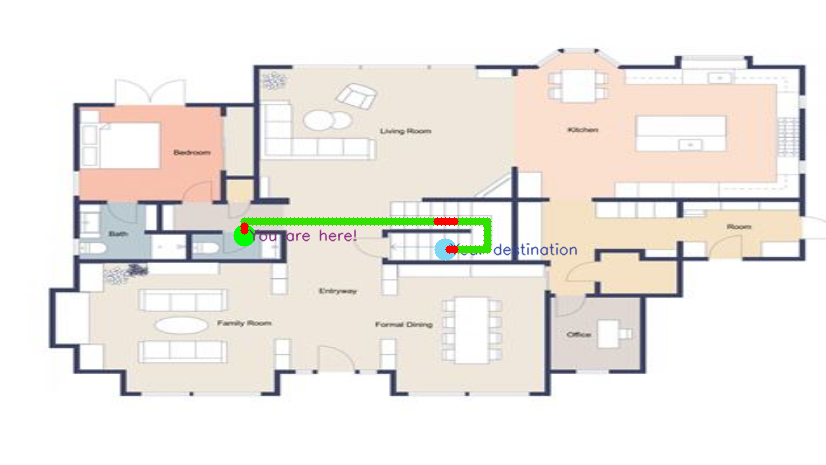
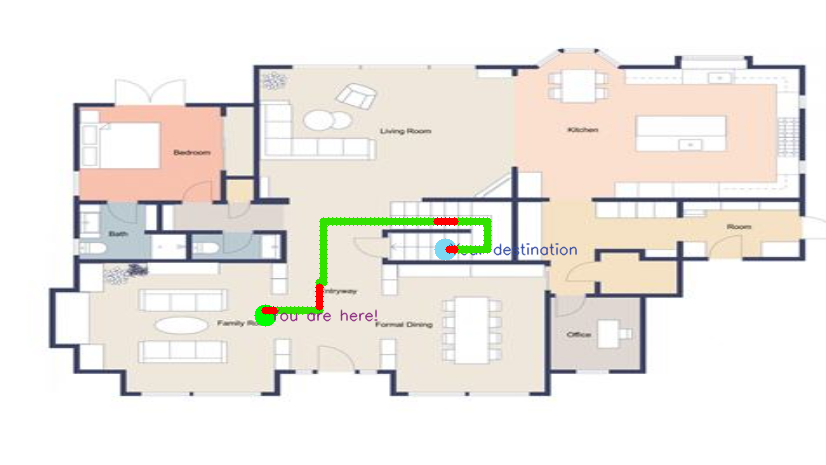
added the css mapping!

Changed region(s): [[0.2724, 0.4516, 0.454, 0.7226]]

diff --git a/inmapapp/templates/inmapapp/sample.html b/inmapapp/templates/inmapapp/sample.html
@@ -3,7 +3,24 @@
 <html>
 <head>
     <link href="https://cdn.jsdelivr.net/npm/bootstrap@5.0.2/dist/css/bootstrap.min.css" rel="stylesheet" integrity="sha384-EVSTQN3/azprG1Anm3QDgpJLIm9Nao0Yz1ztcQTwFspd3yD65VohhpuuCOmLASjC" crossorigin="anonymous">
-</head>
+    <style>
+      .con {
+        width:826px;
+        height:465px;
+        border: 5px solid gold;
+      }
+      .img {
+        width: 100%;
+        height: 100%;
+        object-fit: fill;
+      }
+    </style>
+    <meta charset="UTF-8" />
+    <meta name="viewport" content="width=device-width, initial-scale=1.0" />
+    <meta http-equiv="X-UA-Compatible" content="ie=edge" />
+    <meta name="Description" content="Enter your description here" />
+    <link rel="stylesheet" href="https://cdn.jsdelivr.net/npm/bootstrap@4.0.0/dist/css/bootstrap.min.css" integrity="sha384-Gn5384xqQ1aoWXA+058RXPxPg6fy4IWvTNh0E263XmFcJlSAwiGgFAW/dAiS6JXm" crossorigin="anonymous">
+  </head>
 <body>
     <nav class="navbar navbar-light bg-light">
         <div class="container-fluid justify-content-center">
@@ -13,11 +30,22 @@
           </a>
         </div>
       </nav>
-      <div class="container" style="position: relative;
-      text-align: center;">
-        <img src="{%static 'inmapapp/modfloor2.png' %}"  alt="Snow" style="width:100%;">
-        {{data|safe}}
+      {% comment %} <div class="container" style="position: relative;
+      border:2px solid black">
+        <img src="{%static 'inmapapp/modfloor1.png' %}"  alt="Snow" style="width:100%;position: relative;">
+        
+        </div> {% endcomment %}
+        <div class="container-fluid" style="max-height:465px;max-width:826px;">
+          <div class="row">
+            <div class="col">
+              <img src="{%static 'inmapapp/modfloor1.png' %}" alt="Image" class="img" />
+          {{data|safe}}
+            </div>
+            </div>
         </div>
+        <script src="https://code.jquery.com/jquery-3.2.1.slim.min.js" integrity="sha384-KJ3o2DKtIkvYIK3UENzmM7KCkRr/rE9/Qpg6aAZGJwFDMVNA/GpGFF93hXpG5KkN" crossorigin="anonymous"></script>
+<script src="https://cdn.jsdelivr.net/npm/popper.js@1.12.9/dist/umd/popper.min.js" integrity="sha384-ApNbgh9B+Y1QKtv3Rn7W3mgPxhU9K/ScQsAP7hUibX39j7fakFPskvXusvfa0b4Q" crossorigin="anonymous"></script>
+<script src="https://cdn.jsdelivr.net/npm/bootstrap@4.0.0/dist/js/bootstrap.min.js" integrity="sha384-JZR6Spejh4U02d8jOt6vLEHfe/JQGiRRSQQxSfFWpi1MquVdAyjUar5+76PVCmYl" crossorigin="anonymous"></script>
     </body>
     </html>
 

diff --git a/inmapapp/templates/inmapapp/result.html b/inmapapp/templates/inmapapp/result.html
@@ -58,7 +58,14 @@
       <div class="img-wrapper" id="overlay1" style="left:0%;">
         
         <div class="img-wrapper-overlay"></div>
-        <img src="{%static 'inmapapp/modfloor1.png' %}" class="img-fluid" alt="...">
+        <div class="container-fluid" style="max-height:465px;max-width:826px;">
+          <div class="row">
+            <div class="col">
+              <img src="{%static 'inmapapp/modfloor1.png' %}" alt="Image" class="img" />
+          {{data|safe}}
+            </div>
+            </div>
+        </div>
         <div class="border border-primary rounded p-2">floor1</div>
 
       </div>
@@ -70,7 +77,14 @@
         
         <div class="img-wrapper-overlay"></div>
 
-        <img src="{%static 'inmapapp/modfloor2.png' %}" class="img-fluid" alt="...">
+        <div class="container-fluid" style="max-height:465px;max-width:826px;">
+          <div class="row">
+            <div class="col">
+              <img src="{%static 'inmapapp/modfloor2.png' %}" alt="Image" class="img" />
+          {{data|safe}}
+            </div>
+            </div>
+        </div>
         <div class="border border-primary rounded p-2">floor2</div>
       </div>
       
@@ -81,7 +95,14 @@
     <div class="img-wrapper" id="overlay1" style="left:0%;">
         
       <div class="img-wrapper-overlay"></div>
-      <img src="{%static 'inmapapp/modfloor1.png' %}" class="img-fluid" alt="...">
+      <div class="container-fluid" style="max-height:465px;max-width:826px;">
+        <div class="row">
+          <div class="col">
+            <img src="{%static 'inmapapp/modfloor1.png' %}" alt="Image" class="img" />
+        {{data1|safe}}
+          </div>
+          </div>
+      </div>
       <br>
       <div class="border border-primary rounded p-2">floor1</div>
 
@@ -90,7 +111,14 @@
         
       <div class="img-wrapper-overlay"></div>
 
-      <img src="{%static 'inmapapp/modfloor2.png' %}" class="img-fluid" alt="...">
+      <div class="container-fluid" style="max-height:465px;max-width:826px;">
+        <div class="row">
+          <div class="col">
+            <img src="{%static 'inmapapp/modfloor2.png' %}" alt="Image" class="img" />
+        {{data2|safe}}
+          </div>
+          </div>
+      </div>
 <div class="border border-primary rounded p-2">floor2</div>
     </div>
     </div>

diff --git a/inmapapp/views.py b/inmapapp/views.py
@@ -2,6 +2,7 @@ from django.shortcuts import render,redirect
 from .mazetest import Maze
 from .solutiondata import sols
 import time,os
+
 # floor1checkpoint = {"kitchen":(138, 23), "bedroom1":(48, 24), "emptyroom":(59, 41), "bath":(31, 44), "stairentry":(106, 45), "bath2":(58, 50), "room":(188, 50),"stairexit":(106, 53),"familyroom":(63, 67), "formaldining":(100, 68),"office":(139, 71), "exit":(79, 76)}
 # floor2checkpoint = {"bedroom1":(56,24), "familyroom":(119, 37), "bath":(32, 45), "stairentry":(143, 45), "emptyroom":(73, 51),"stairexit":(142, 51), "bedroom3":(146, 62),"bedroom2":(74, 63),"Bathroom":(107, 72)}
 
@@ -15,6 +16,7 @@ floor1 = False
 floor2 = False
 # Create your views here.
 def index(request):
+    global solutions
     if request.method == "GET":
         return render(request,'inmapapp/index.html',{'image':"inmapapp/MAP.png",'time':'','update':False})    
     else:
@@ -34,44 +36,69 @@ def index(request):
             To_x,To_y = floor1checkpoint[To]
             m = Maze(os.path.abspath('inmapapp/static/inmapapp/floor1.txt'),From_x,From_y,To_x,To_y,"floor1.png")
             m.solve()
-            m.output_image()
+            solutions = m.output_image()
             floor1 = True
             floor2 = False
-            
-            return render(request,'inmapapp/result.html',{'floor1':floor1,'floor2':floor2,'time':time.time()-then,'update':True})
+            ans=""
+            print(solutions[1])
+            for sol in solutions[1]:
+                ans+=f'''<span style="width:10px;height:10px;background:blue;position: absolute;top: {sol[0]*4.5}px;left: {sol[1]*4.2}px;"> </span>'''
+            # return render(request,'inmapapp/sample.html',{"data":ans})
+            return render(request,'inmapapp/result.html',{'floor1':floor1,'floor2':floor2,'time':time.time()-then,"data":ans,'update':True})
         if From in floor2checkpoint and To in floor2checkpoint:
             From_x,From_y = floor2checkpoint[From]
             To_x,To_y = floor2checkpoint[To]
             m = Maze(os.path.abspath('inmapapp/static/inmapapp/floor2.txt'),From_x,From_y,To_x,To_y,"floor2.png")
             m.solve()
-            m.output_image()
+            solutions = m.output_image()
             floor1=False
             floor2 = True
-            return render(request,'inmapapp/result.html',{'floor1':floor1,'floor2':floor2,'time':time.time()-then,'update':True})
+            ans=""
+            print(solutions[1])
+            for sol in solutions[1]:
+                ans+=f'''<span style="width:10px;height:10px;background:blue;position: absolute;top: {sol[0]*4.5}px;left: {sol[1]*4.2}px;"> </span>'''
+            # return render(request,'inmapapp/sample.html',{"data":ans})
+            return render(request,'inmapapp/result.html',{'floor1':floor1,'floor2':floor2,'time':time.time()-then,"data":ans,'update':True})
         if From in floor1checkpoint and To in floor2checkpoint:
             From_x,From_y = floor1checkpoint[From]
             To_x,To_y = floor2checkpoint[To]
             m = Maze(os.path.abspath('inmapapp/static/inmapapp/floor1.txt'),From_x,From_y,106,53,"floor1.png")
             m.solve()
-            m.output_image()
+            solutions1 = m.output_image()
+            ans1=""
+            print(solutions1[1])
+            for sol in solutions1[1]:
+                ans1+=f'''<span style="width:10px;height:10px;background:blue;position: absolute;top: {sol[0]*4.5}px;left: {sol[1]*4.2}px;"> </span>'''
             n = Maze(os.path.abspath('inmapapp/static/inmapapp/floor2.txt'),143,45,To_x,To_y,"floor2.png")
             n.solve()
-            n.output_image()
+            solutions2 = n.output_image()
             floor1=True
             floor2=True
-            return render(request,'inmapapp/result.html',{'floor1':floor1,'floor2':floor2,'time':time.time()-then,'update':True})
+            ans2=""
+            print(solutions2[1])
+            for sol in solutions2[1]:
+                ans2+=f'''<span style="width:10px;height:10px;background:blue;position: absolute;top: {sol[0]*4.5}px;left: {sol[1]*4.2}px;"> </span>'''
+            # return render(request,'inmapapp/sample.html',{"data":ans})
+            return render(request,'inmapapp/result.html',{'floor1':floor1,'floor2':floor2,'time':time.time()-then,"data1":ans1,"data2":ans2,'update':True})
         if From in floor2checkpoint and To in floor1checkpoint:
             From_x,From_y = floor2checkpoint[From]
             To_x,To_y = floor1checkpoint[To]
             m = Maze(os.path.abspath('inmapapp/static/inmapapp/floor2.txt'),From_x,From_y,142,51,"floor2.png")
             m.solve()
-            m.output_image()
+            solutions1 = m.output_image()
+            print(solutions1[1])
+            for sol in solutions1[1]:
+                ans1+=f'''<span style="width:10px;height:10px;background:blue;position: absolute;top: {sol[0]*4.5}px;left: {sol[1]*4.2}px;"> </span>'''
             n = Maze(os.path.abspath('inmapapp/static/inmapapp/floor1.txt'),106,45,To_x,To_y,"floor1.png")
             n.solve()
-            n.output_image()
+            solutions2 = n.output_image()
             floor1=True
             floor2=True
-            return render(request,'inmapapp/result.html',{'floor1':floor1,'floor2':floor2,'time':time.time()-then,'update':True})
+            ans2=""
+            print(solutions2[1])
+            for sol in solutions2[1]:
+                ans2+=f'''<span style="width:10px;height:10px;background:blue;position: absolute;top: {sol[0]*4.5}px;left: {sol[1]*4.2}px;"> </span>'''
+            return render(request,'inmapapp/result.html',{'floor1':floor1,'floor2':floor2,'time':time.time()-then,"data1":ans1,"data2":ans2,'update':True})
             # print(From_x,From_y,To_x,To_y)
             
             # /home/sooraj/Documents/PROJECTS/INMAPWEB/inmapproject/inmapapp/static/inmapapp/map.txt
@@ -92,8 +119,8 @@ def result(request):
 
 def sample(request):
     ans=""
-    for sol in sols:
-        ans+=f'''<div style="width:10px;height:10px;border:5px solid black;position: absolute;top: {sol[1]*4.2}px;left: {sol[0]*4.7}px;"> </div>'''
+    for sol in solutions[1]:
+        ans+=f'''<span style="width:10px;height:10px;background:blue;position: absolute;top: {sol[0]*4.5}px;left: {sol[1]*4.2}px;"> </span>'''
     return render(request,'inmapapp/sample.html',{"data":ans})
 def test(request):
     From = request.POST.get('fromLocation')

diff --git a/inmapapp/solutiondata.py b/inmapapp/solutiondata.py
@@ -1,1 +1,5 @@
-sols = [(52, 73), (52, 74), (52, 75), (52, 76), (51, 76), (50, 76), (49, 76), (48, 76), (47, 76), (47, 77), (47, 78), (47, 79), (47, 80), (47, 81), (47, 82), (47, 83), (47, 84), (47, 85), (47, 86), (47, 87), (47, 88), (47, 89), (47, 90), (47, 91), (47, 92), (47, 93), (47, 94), (47, 95), (47, 96), (47, 97), (47, 98), (47, 99), (47, 100), (47, 101), (47, 102), (47, 103), (47, 104), (47, 105), (47, 106), (47, 107), (47, 108), (47, 109), (47, 110), (47, 111), (47, 112), (47, 113), (47, 114), (47, 115), (47, 116), (47, 117), (47, 118), (47, 119), (47, 120), (47, 121), (47, 122), (47, 123), (47, 124), (47, 125), (47, 126), (47, 127), (47, 128), (47, 129), (47, 130), (47, 131), (47, 132), (47, 133), (47, 134), (47, 135), (47, 136), (47, 137), (47, 138), (47, 139), (47, 140), (47, 141), (47, 142), (47, 143), (47, 144), (47, 145), (47, 146), (47, 147), (47, 148), (47, 149), (47, 150), (47, 151), (47, 152), (47, 153), (47, 154), (47, 155), (47, 156), (48, 156), (49, 156), (50, 156), (51, 156), (52, 156), (52, 155), (52, 154), (52, 153), (52, 152), (52, 151), (52, 150), (52, 149), (52, 148), (52, 147), (52, 146), (52, 145), (52, 144), (52, 143), (51, 143), (51, 142)]
+# sols = [(52, 73), (52, 74), (52, 75), (52, 76), (51, 76), (50, 76), (49, 76), (48, 76), (47, 76), (47, 77), (47, 78), (47, 79), (47, 80), (47, 81), (47, 82), (47, 83), (47, 84), (47, 85), (47, 86), (47, 87), (47, 88), (47, 89), (47, 90), (47, 91), (47, 92), (47, 93), (47, 94), (47, 95), (47, 96), (47, 97), (47, 98), (47, 99), (47, 100), (47, 101), (47, 102), (47, 103), (47, 104), (47, 105), (47, 106), (47, 107), (47, 108), (47, 109), (47, 110), (47, 111), (47, 112), (47, 113), (47, 114), (47, 115), (47, 116), (47, 117), (47, 118), (47, 119), (47, 120), (47, 121), (47, 122), (47, 123), (47, 124), (47, 125), (47, 126), (47, 127), (47, 128), (47, 129), (47, 130), (47, 131), (47, 132), (47, 133), (47, 134), (47, 135), (47, 136), (47, 137), (47, 138), (47, 139), (47, 140), (47, 141), (47, 142), (47, 143), (47, 144), (47, 145), (47, 146), (47, 147), (47, 148), (47, 149), (47, 150), (47, 151), (47, 152), (47, 153), (47, 154), (47, 155), (47, 156), (48, 156), (49, 156), (50, 156), (51, 156), (52, 156), (52, 155), (52, 154), (52, 153), (52, 152), (52, 151), (52, 150), (52, 149), (52, 148), (52, 147), (52, 146), (52, 145), (52, 144), (52, 143), (51, 143), (51, 142)]
+# sols = [(68, 63), (69, 63), (69, 64), (69, 65), (69, 66), (69, 67), (69, 68), (69, 69), (69, 70), (69, 71), (69, 72), (69, 73), (69, 74), (69, 75), (69, 76), (70, 76), (71, 76), (72, 76), (73, 76), (74, 76), (75, 76), (76, 76), (76, 77), (76, 78), (76, 79)]
+# sols = [(43, 31), (42, 31), (42, 32), (42, 33), (42, 34), (42, 35), (42, 36), (42, 37), (42, 38), (42, 39), (42, 40), (42, 41), (42, 42), (42, 43), (42, 44), (42, 45), (43, 45), (44, 45), (44, 46), (44, 47), (44, 48), (44, 49), (44, 50), (44, 51), (44, 52), (44, 53), (44, 54), (44, 55), (44, 56), (44, 57), (44, 58), (44, 59), (44, 60), (44, 61), (44, 62), (44, 63), (44, 64), (44, 65), (44, 66), (44, 67), (44, 68), (44, 69), (44, 70), (44, 71), (44, 72), (44, 73), (44, 74), (44, 75), (44, 76), (44, 77), (44, 78), (44, 79), (44, 80), (44, 81), (44, 82), (44, 83), (44, 84), (44, 85), (44, 86), (44, 87), (43, 87), (42, 87), (41, 87), (41, 88), (40, 88), (39, 88), (38, 88), (38, 89), (37, 89), (37, 90), (37, 91), (37, 92), (37, 93), (37, 94), (37, 95), (37, 96), (37, 97), (37, 98), (37, 99), (37, 100), (37, 101), (37, 102), (36, 102), (36, 103), (36, 104), (36, 105), (36, 106), (36, 107), (35, 107), (34, 107), (33, 107), (32, 107), (31, 107), (30, 107), (29, 107), (28, 107), (28, 108), (27, 108), (26, 108), (25, 108), (25, 109), (25, 110), (25, 111), (25, 112), (25, 113), (25, 114), (25, 115), (25, 116), (25, 117), (25, 118), (25, 119), (25, 120), (25, 121), (25, 122), (25, 123), (25, 124), (25, 125), (25, 126), (25, 127), (25, 128), (25, 129), (26, 129), (26, 130), (26, 131), (26, 132), (26, 133), (26, 134), (26, 135), (26, 136), (27, 136), (28, 136), (29, 136), (30, 136), (31, 136), (32, 136), (33, 136), (34, 136), (35, 136), (36, 136), (37, 136), (38, 136), (39, 136), (40, 136), (41, 136), (42, 136), (43, 136), (44, 136), (45, 136), (46, 136), (47, 136), (48, 136), (49, 136), (50, 136), (50, 137), (50, 138), (50, 139), (50, 140), (50, 141), (50, 142), (50, 143), (50, 144), (50, 145), (50, 146), (50, 147), (50, 148), (50, 149), (50, 150), (51, 150), (51, 151), (51, 152), (51, 153), (51, 154), (51, 155), (51, 156), (51, 157), (51, 158), (51, 159), (51, 160), (51, 161), (51, 162), (51, 163), (51, 164), (51, 165), (51, 166), (51, 167), (51, 168), (51, 169), (51, 170), (51, 171), (51, 172), (51, 173), (51, 174), (51, 175), (51, 176), (51, 177), (51, 178), (51, 179), (51, 180), (51, 181), (51, 182), (51, 183), (51, 184), (51, 185), (51, 186), (51, 187), (51, 188), (50, 188)]
+sols = [(24, 138), (25, 138), (25, 137), (25, 136), (25, 135), (25, 134), (25, 133), (25, 132), (25, 131), (25, 130), (25, 129), (25, 128), (25, 127), (25, 126), (25, 125), (25, 124), (25, 123), (25, 122), (25, 121), (25, 120), (25, 119), (25, 118), (25, 117), (25, 116), (25, 115), (25, 114), (26, 114), (27, 114), (28, 114), (29, 114), (30, 114), (31, 114), (32, 114), (33, 114), (34, 114), (35, 114), (36, 114), (37, 114), (38, 114), (38, 113), (39, 113), (39, 112), (40, 112), (40, 111), (40, 110), (40, 109), (40, 108), (40, 107), (40, 106), (40, 105), (40, 104), (40, 103), (40, 102), (40, 101), (40, 100), (40, 99), (40, 98), (40, 97), (40, 96), (40, 95), (40, 94), (41, 94), (42, 94), (43, 94), (44, 94), (44, 93), (44, 92), (44, 91), (44, 90), (44, 89), (44, 88), (44, 87), (44, 86), (44, 85), (44, 84), (44, 83), (44, 82), (44, 81), (44, 80), (44, 79), (44, 78), (44, 77), (44, 76), (44, 75), (44, 74), (44, 73), (44, 72), (44, 71), (44, 70), (44, 69), (44, 68), (44, 67), (44, 66), (44, 65), (44, 64), (44, 63), (44, 62), (44, 61), (44, 60), (44, 59), (44, 58), (44, 57), (44, 56), (44, 55), (44, 54), (44, 53), (44, 52), (44, 51), (43, 51), (42, 51), (42, 50), (42, 49), (42, 48), (42, 47), (42, 46), (42, 45), (42, 44), (42, 43), (42, 42), (42, 41), (42, 40), (42, 39), (42, 38), (42, 37), (42, 36), (42, 35), (42, 34), (42, 33), (43, 33), (44, 33), (44, 32), (44, 31)]
+# sols = [(0,0)]

diff --git a/inmapapp/mazetest.py b/inmapapp/mazetest.py
@@ -263,12 +263,14 @@ class Maze():
                 if x_distance<=2 and y_distance<=2:
                     print(f"checkpoint{checkpoints} is near to point{points} of floor2")
                     cv.circle(base_img,(round(checkpoints[1]*4.2),round(checkpoints[0]*4.7)),1,(0,0,255),5)
-        print(self.solution)
+        cv.imwrite(os.path.abspath(f'inmapapp/static/inmapapp/mod{self.imagename}'),base_img)
+        # print(self.solution)
+        return self.solution
                     
 
 
 
-        cv.imwrite(os.path.abspath(f'inmapapp/static/inmapapp/mod{self.imagename}'),base_img)
+        
 
 
         # img.save(filename)
